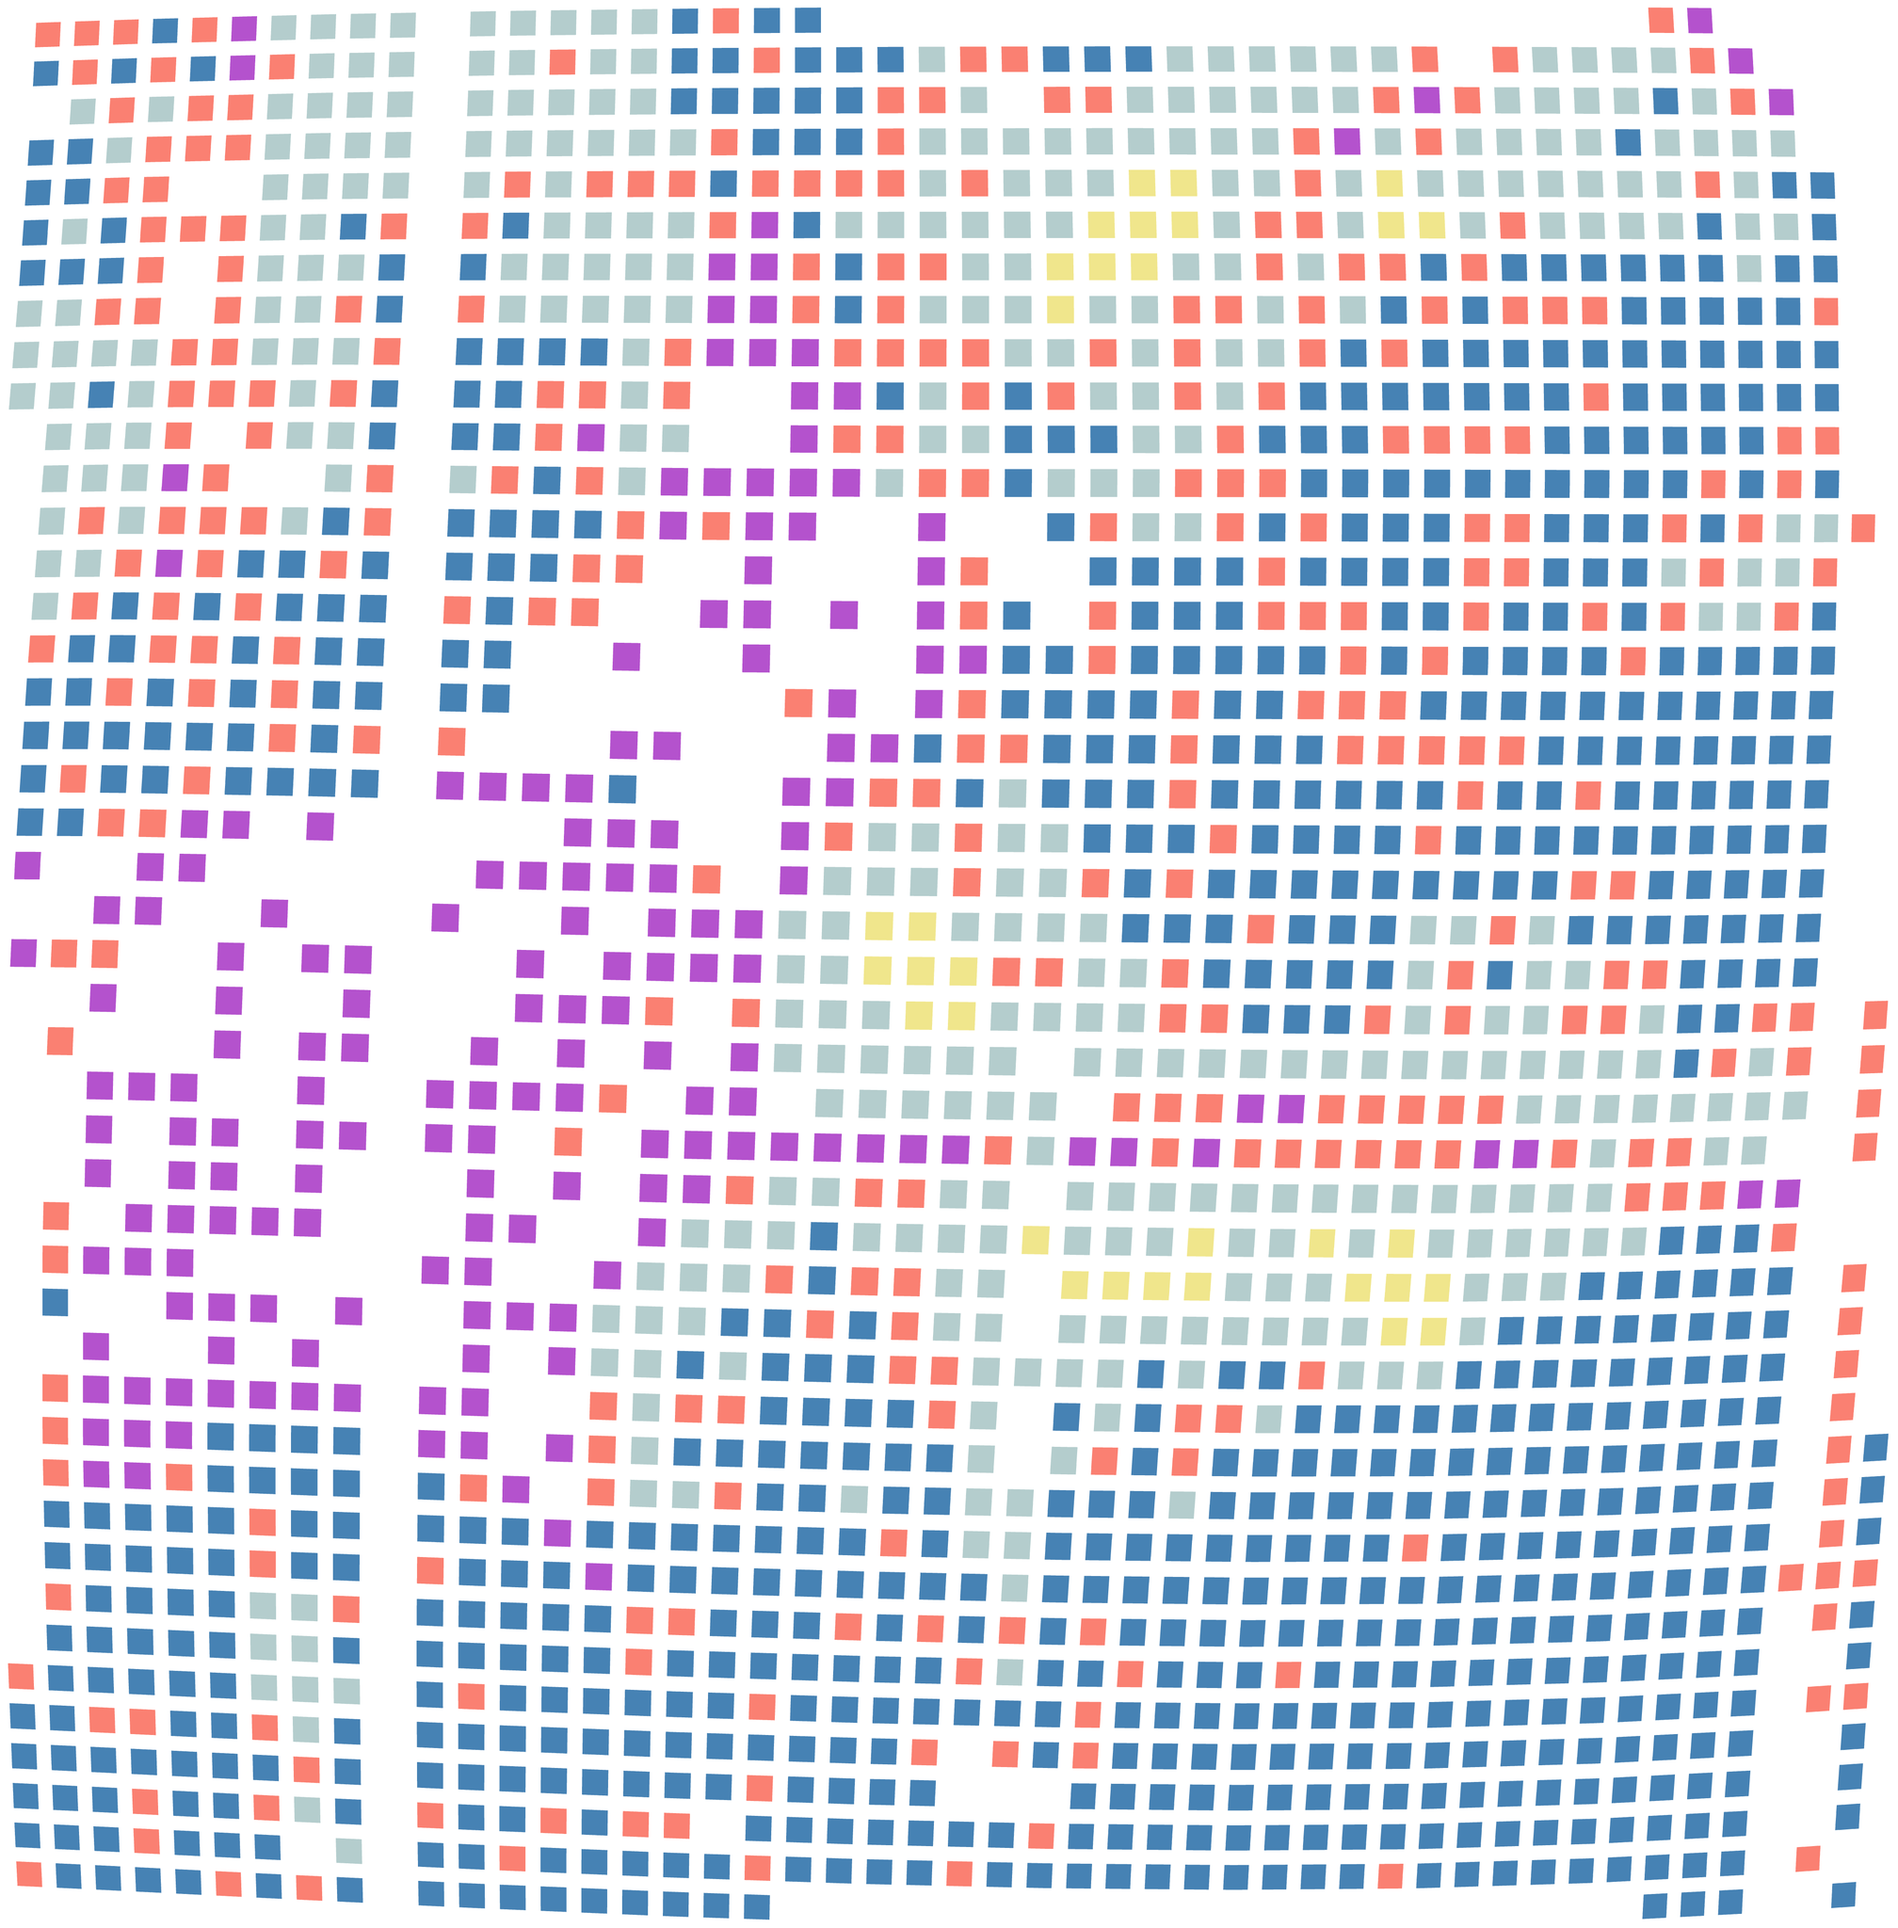
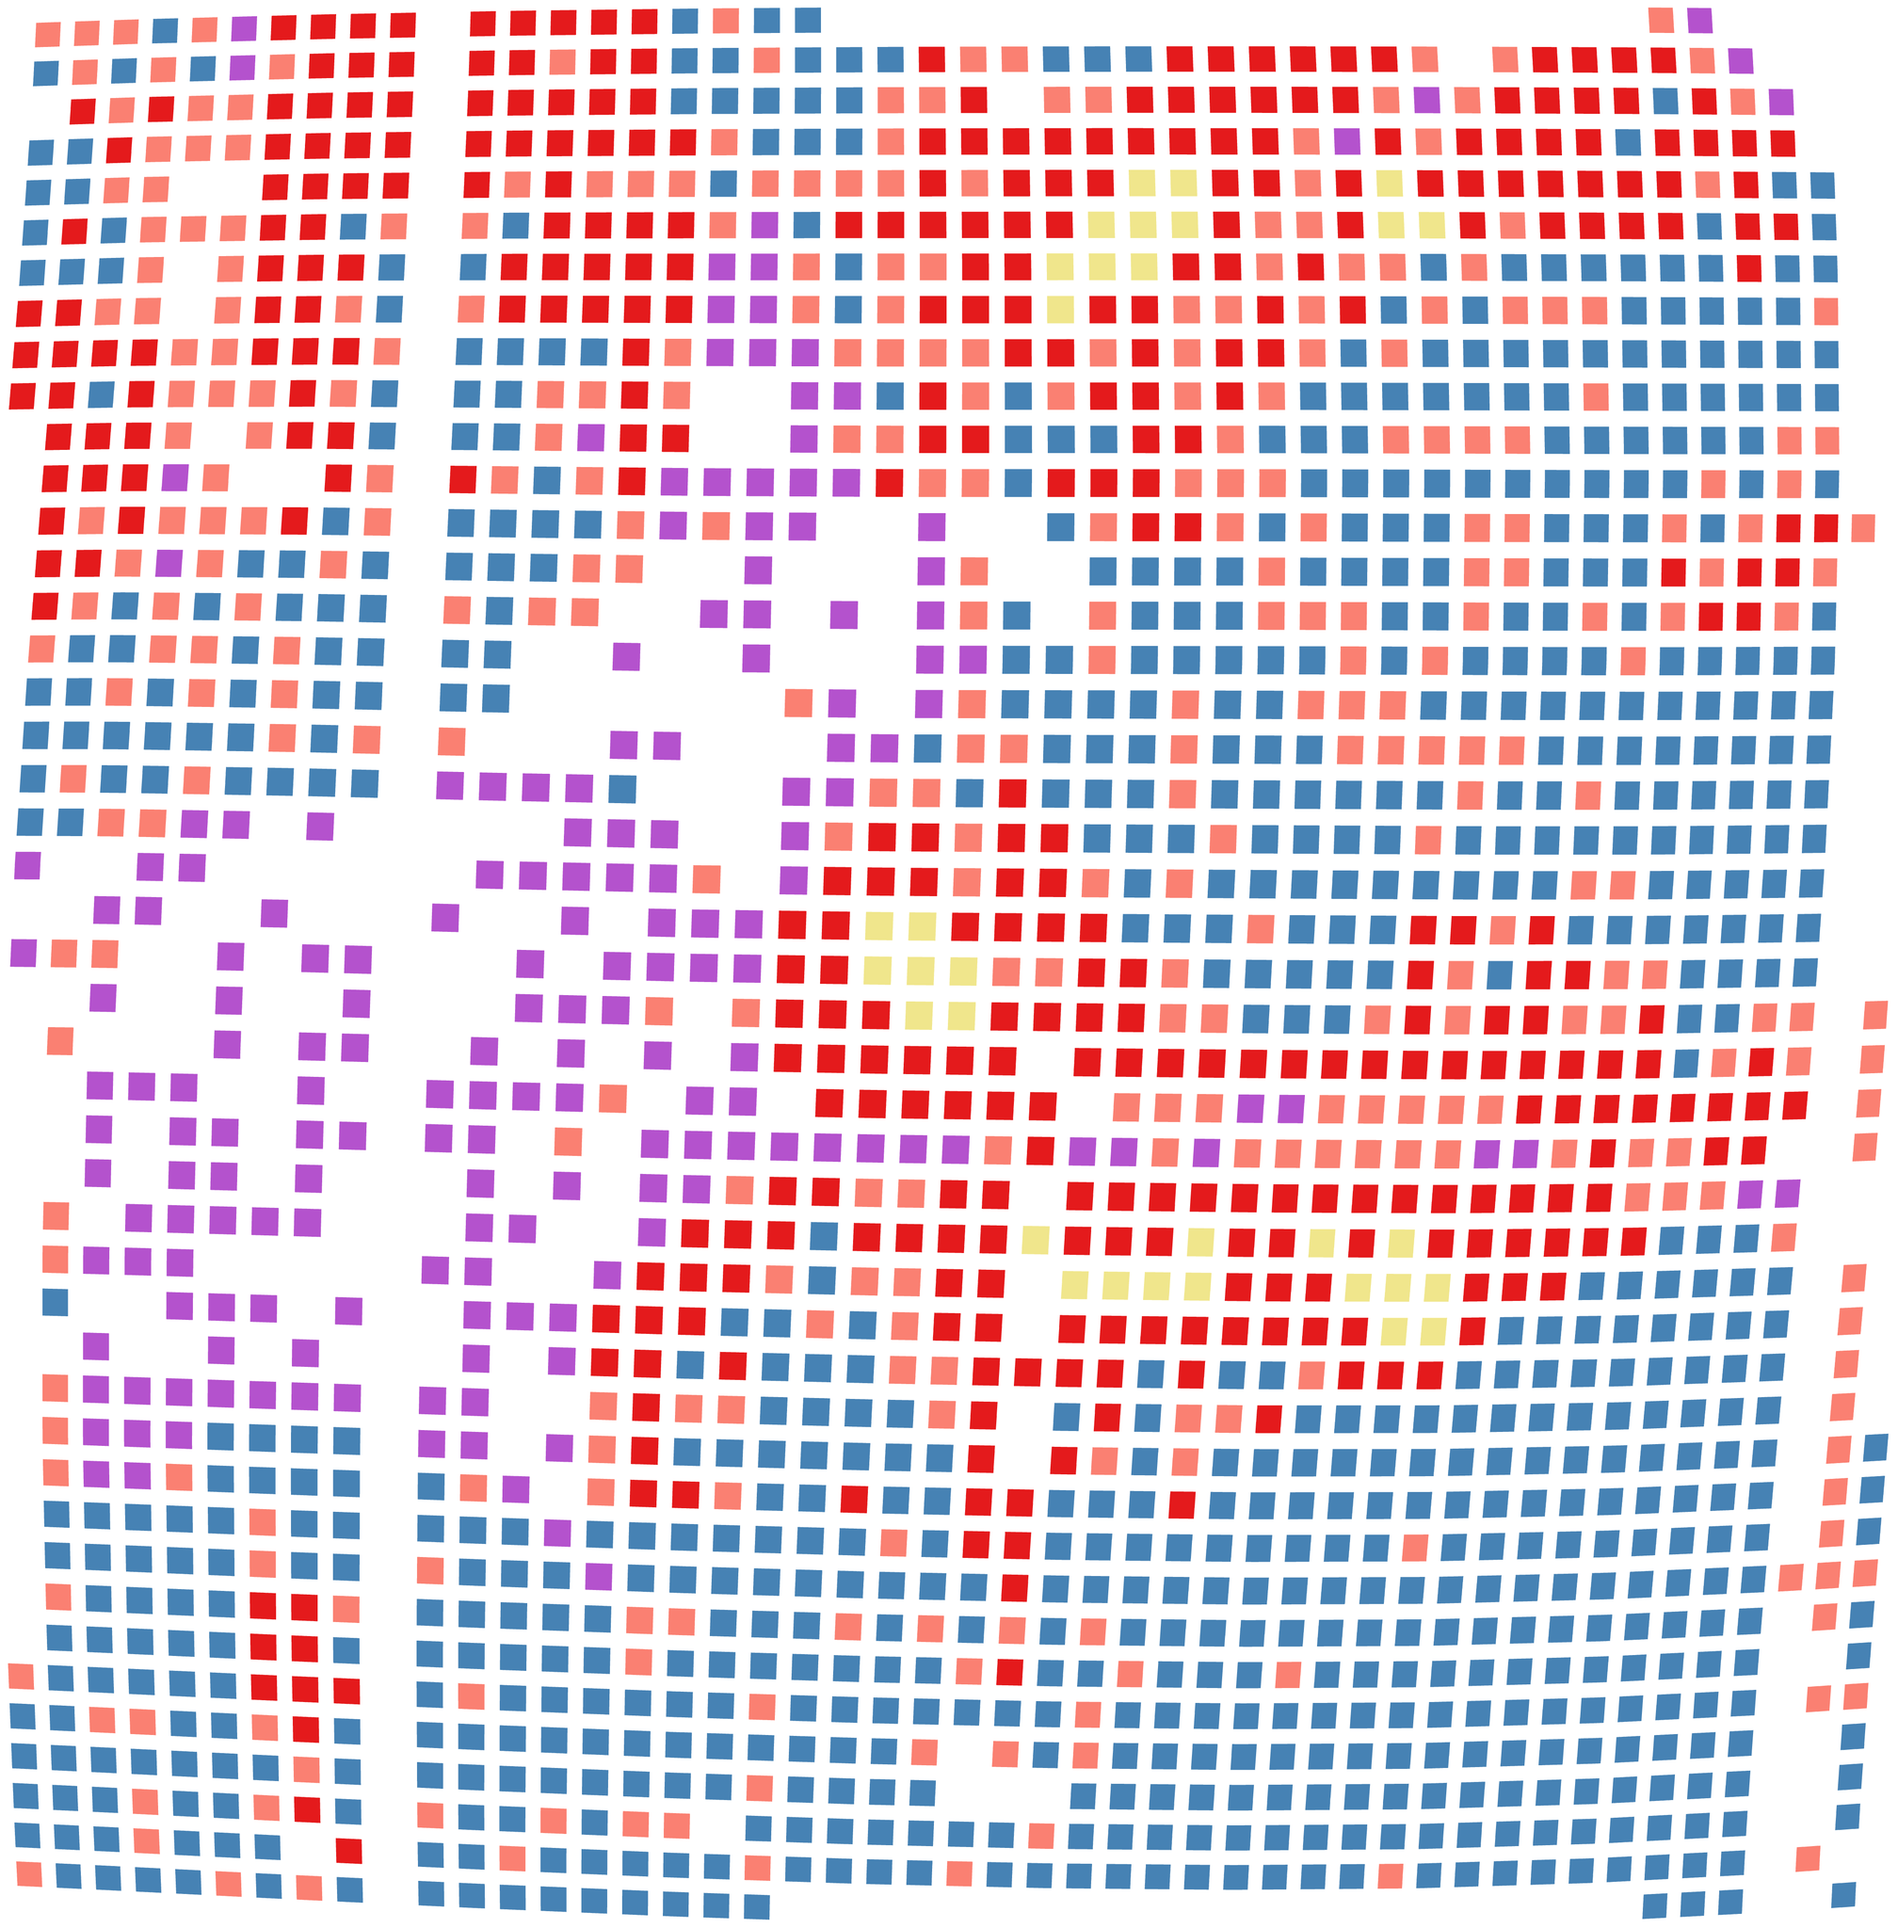
Use B-cell red for cluster 2

diff --git a/app.js b/app.js
@@ -17,7 +17,7 @@
       src: "assets/clusters.png", label: "Clusters 0–4",
       legend: [
         ["Cluster 0", "#4682B4"], ["Cluster 1", "#FA8072"],
-        ["Cluster 2", "#B4CDCD"], ["Cluster 3", "#B452CD"],
+        ["Cluster 2", "#E41A1C"], ["Cluster 3", "#B452CD"],
         ["Cluster 4", "#F0E68C"],
       ],
     },
